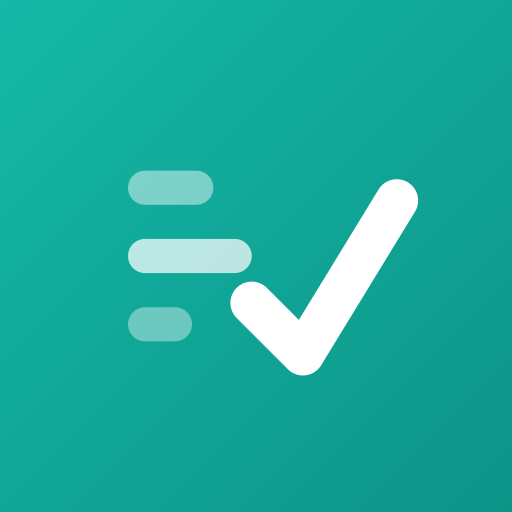
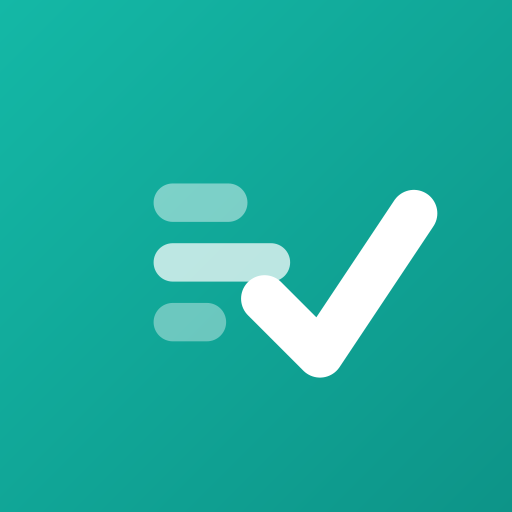
앱 아이콘을 확정 로고 심볼로 재렌더 (균형 보정)
체크가 가장자리로 쏠려 어수선하던 기존 아이콘을 세로 확정 로고와
동일한 비율로 가운데 정렬해 다시 생성. icon-192/512, apple-touch,
icon.svg 갱신 + 재현용 tools/render-icons.js 추가.

Changed region(s): [[0.25, 0.3438, 0.875, 0.75], [0.25, 0.3125, 0.5, 0.4375]]

diff --git a/tools/render-icons.js b/tools/render-icons.js
@@ -1,0 +1,52 @@
+// 한번에 앱 아이콘 렌더러 — 확정 로고 심볼(흩어진 3줄 → 체크)로 PNG 생성
+// 실행: node tools/render-icons.js [--preview]
+const sharp = require('sharp');
+const fs = require('fs');
+const path = require('path');
+
+const root = path.join(__dirname, '..');
+
+// 풀블리드 그라데이션 + 안전영역(중앙 80%) 안에 균형있게 배치한 심볼.
+// 좌측에 흩어진 3줄(일정/할일/성적), 우측에 체크(✓)로 모임.
+function masterSvg() {
+  return `<svg xmlns="http://www.w3.org/2000/svg" viewBox="0 0 120 120">
+  <defs><linearGradient id="g" x1="0" y1="0" x2="1" y2="1">
+    <stop offset="0" stop-color="#14B8A6"/><stop offset="1" stop-color="#0D9488"/>
+  </linearGradient></defs>
+  <rect x="0" y="0" width="120" height="120" fill="url(#g)"/>
+  <rect x="36" y="43" width="22" height="9" rx="4.5" fill="#fff" opacity="0.45"/>
+  <rect x="36" y="57" width="32" height="9" rx="4.5" fill="#fff" opacity="0.72"/>
+  <rect x="36" y="71" width="17" height="9" rx="4.5" fill="#fff" opacity="0.38"/>
+  <path d="M62 70 L75 83 L97 50" fill="none" stroke="#fff" stroke-width="11"
+        stroke-linecap="round" stroke-linejoin="round"/>
+</svg>`;
+}
+
+// 둥근 모서리 버전(svg 파비콘/표시용) — 풀블리드와 동일 심볼, rx만 추가
+function roundedSvg() {
+  return masterSvg().replace(
+    '<rect x="0" y="0" width="120" height="120" fill="url(#g)"/>',
+    '<rect x="0" y="0" width="120" height="120" rx="26" fill="url(#g)"/>'
+  );
+}
+
+async function png(svg, size, outName) {
+  const buf = await sharp(Buffer.from(svg)).resize(size, size).png().toBuffer();
+  fs.writeFileSync(path.join(root, outName), buf);
+  console.log('wrote', outName, size + 'px', buf.length + 'B');
+}
+
+(async () => {
+  const preview = process.argv.includes('--preview');
+  const prefix = preview ? '_preview-' : '';
+  const svg = masterSvg();
+  await png(svg, 512, prefix + 'icon-512.png');
+  await png(svg, 192, prefix + 'icon-192.png');
+  await png(svg, 180, prefix + 'apple-touch-icon.png');
+  if (!preview) {
+    fs.writeFileSync(path.join(root, 'icon.svg'),
+      roundedSvg().replace('viewBox="0 0 120 120"', 'viewBox="0 0 120 120" width="512" height="512"') + '\n');
+    console.log('wrote icon.svg');
+  }
+  console.log('done');
+})();